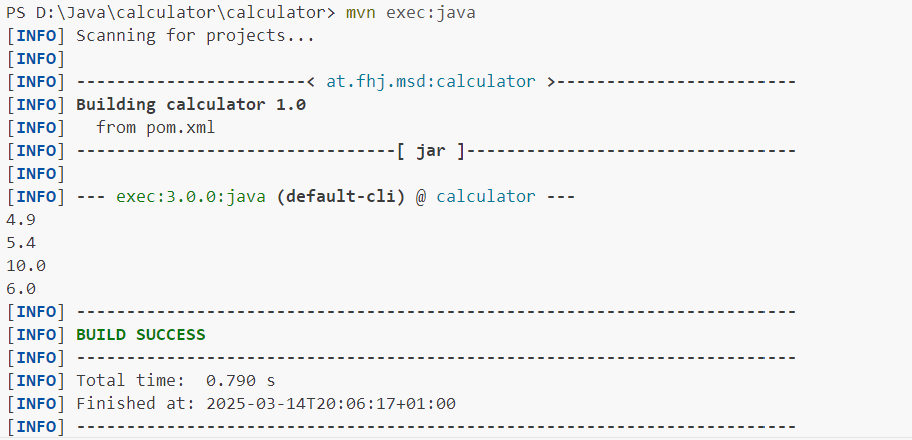
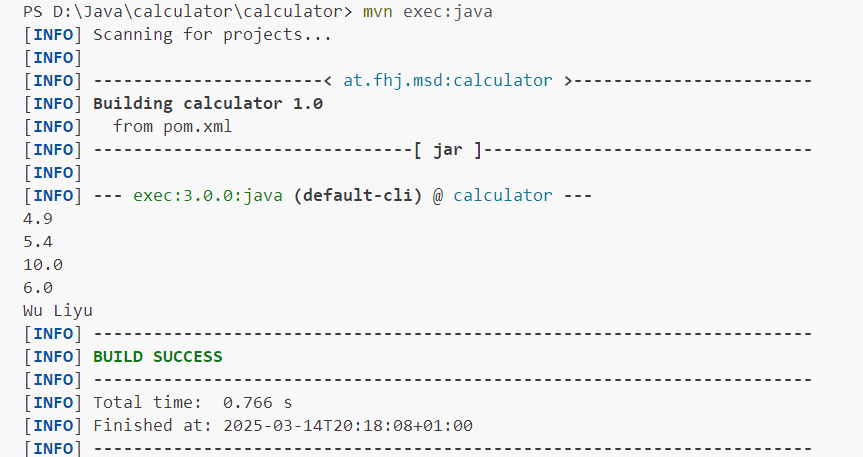
Added execution result of Main class

Changed region(s): [[0.0, 0.0, 0.934, 1.0], [0.8737, 0.8273, 0.9038, 0.8568]]

diff --git a/src/main/java/at/fhj/msd/Main.java b/src/main/java/at/fhj/msd/Main.java
@@ -7,5 +7,7 @@ public class Main{
         System.out.println(c1.minus(6.9,1.5));
         System.out.println(c1.multiply(2,5.0));
         System.out.println(c1.divide(30,5));
+
+        System.out.println("Wu Liyu");
     }
 }
